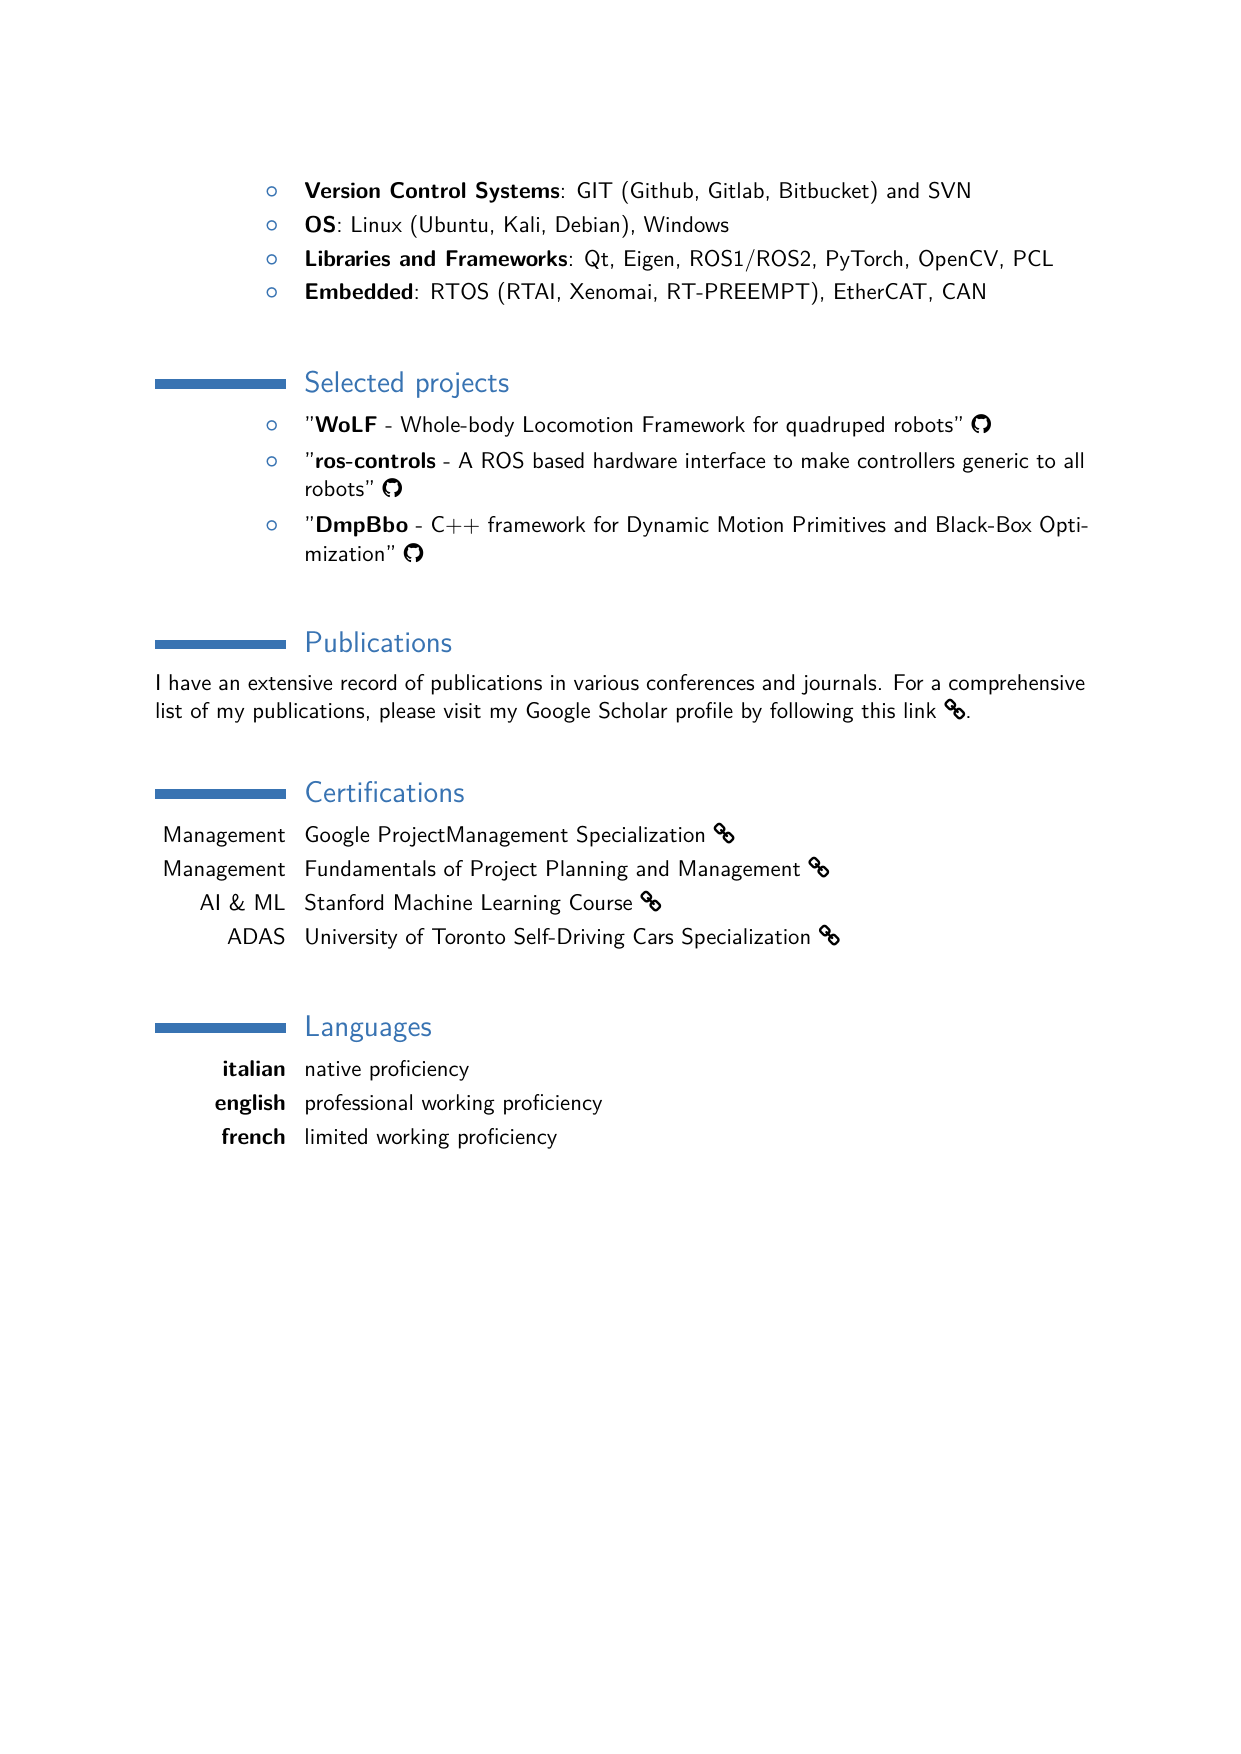
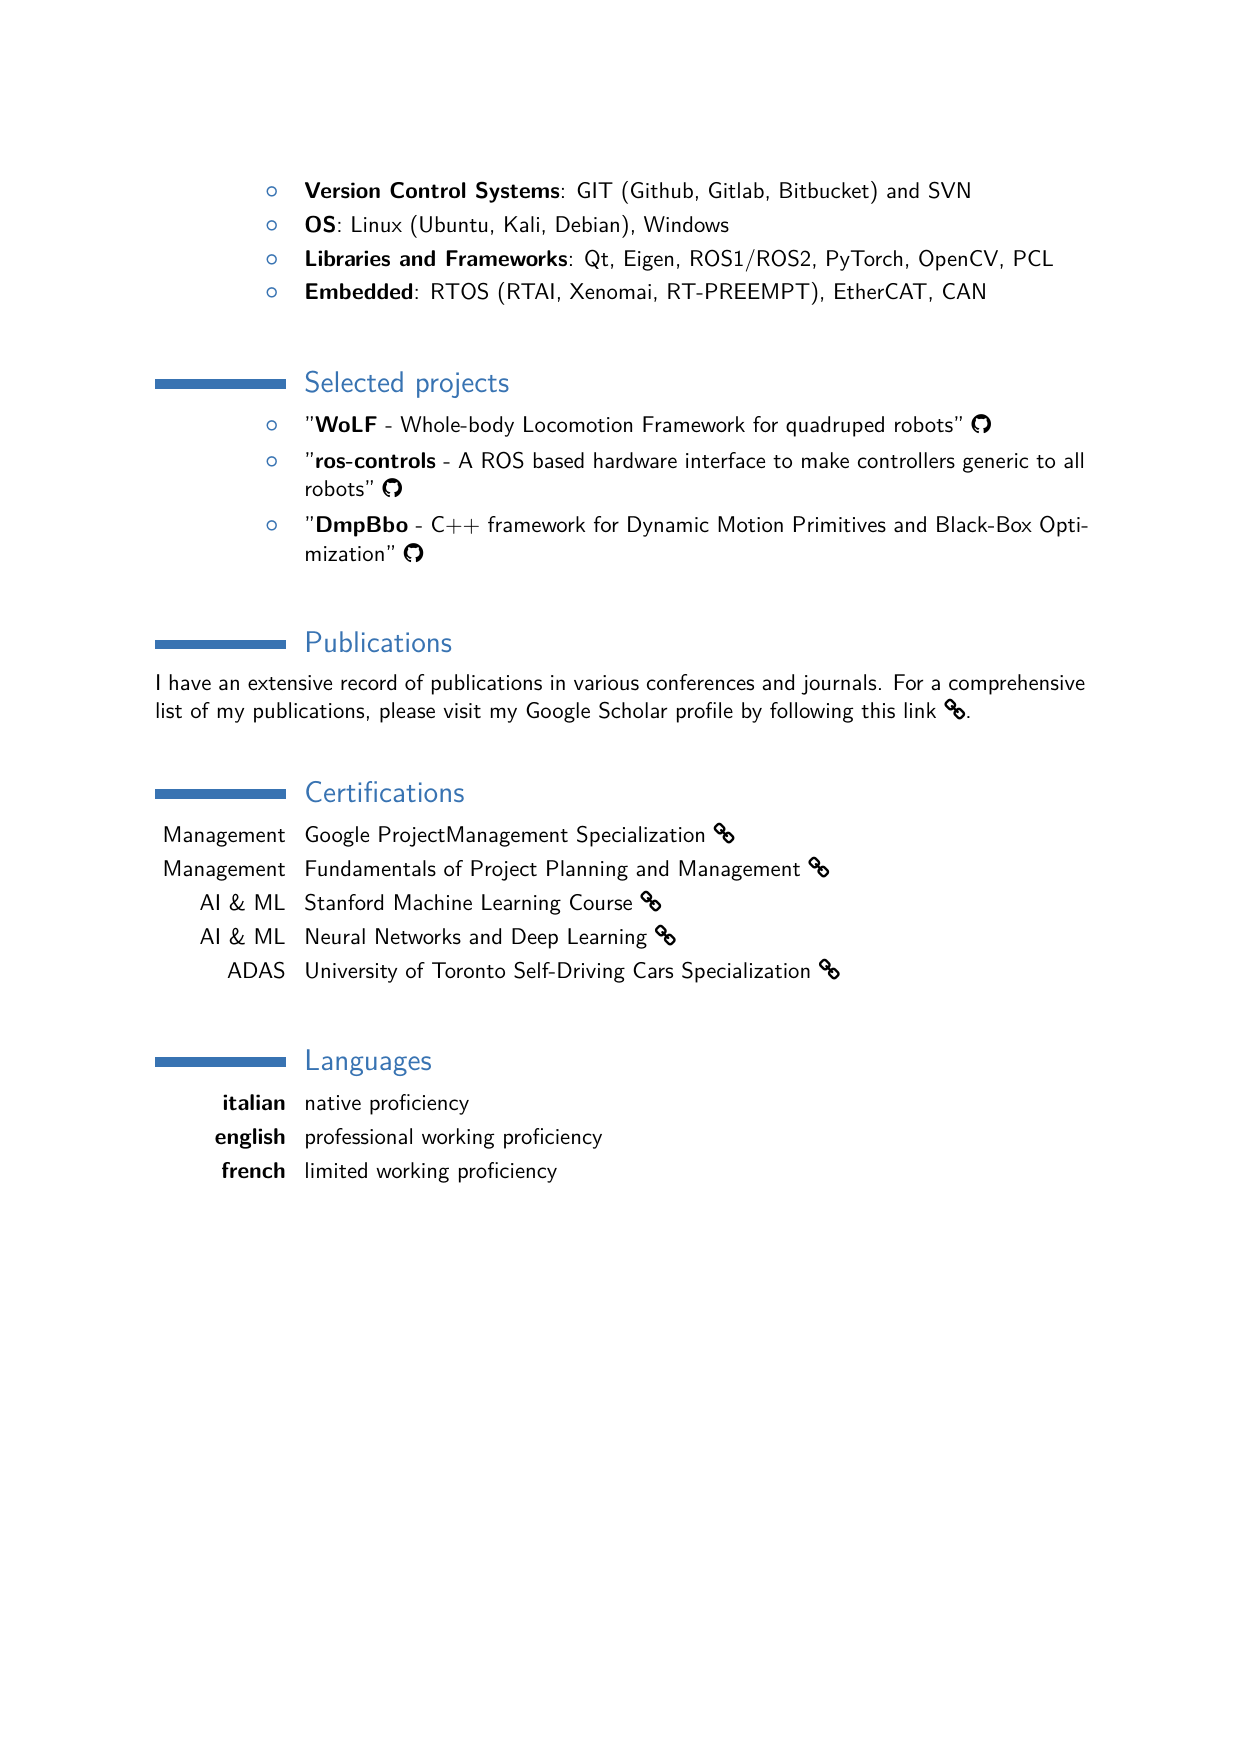
Generated files updated on gio 30 nov 2023, 17:12:45, CET

Changed region(s): [[0.1225, 0.5234, 0.6737, 0.6773]]

diff --git a/CV_Gennaro-Raiola.tex b/CV_Gennaro-Raiola.tex
@@ -410,6 +410,7 @@ Stefano Cordasco, \textbf{Gennaro Raiola}, Luca Muratore, Joaquin Estremera Rodr
 \cvitem{Management}{Google ProjectManagement Specialization \href{https://coursera.org/share/28b289c536ad79bccd5a06019b6b7990}{\faLink \underline {}} }
 \cvitem{Management}{Fundamentals of Project Planning and Management \href{https://coursera.org/share/70a36e20dcc436e1d6b39b067e8a3fb8}{\faLink \underline {}} }
 \cvitem{AI \& ML}{Stanford Machine Learning Course \href{https://coursera.org/share/5efdbc83f8b37aeeb764ebc781cc0024}{\faLink \underline {}} }
+\cvitem{AI \& ML}{Neural Networks and Deep Learning \href{https://coursera.org/share/68c9ea266b3b493eff8da0af6b2099d6}{\faLink \underline {}} }
 \cvitem{ADAS}{University of Toronto Self-Driving Cars Specialization \href{https://coursera.org/share/9ee854a219de9ee348d5074b90814c19}{\faLink \underline {}} }
 
 \sectionspace
